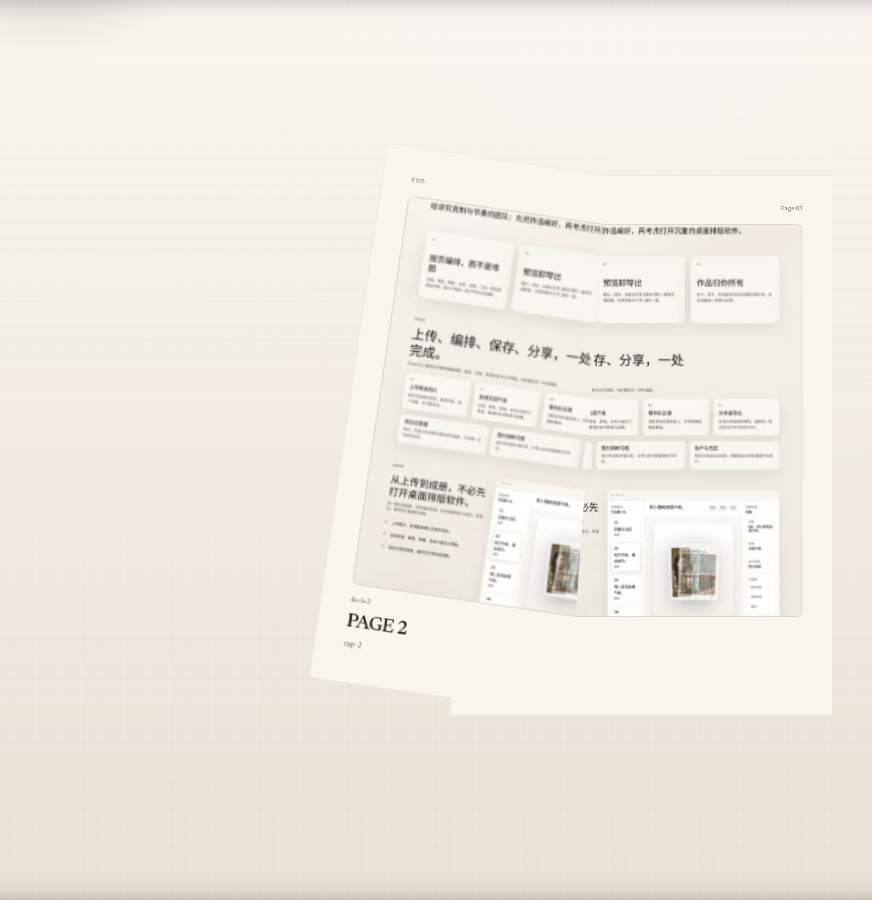
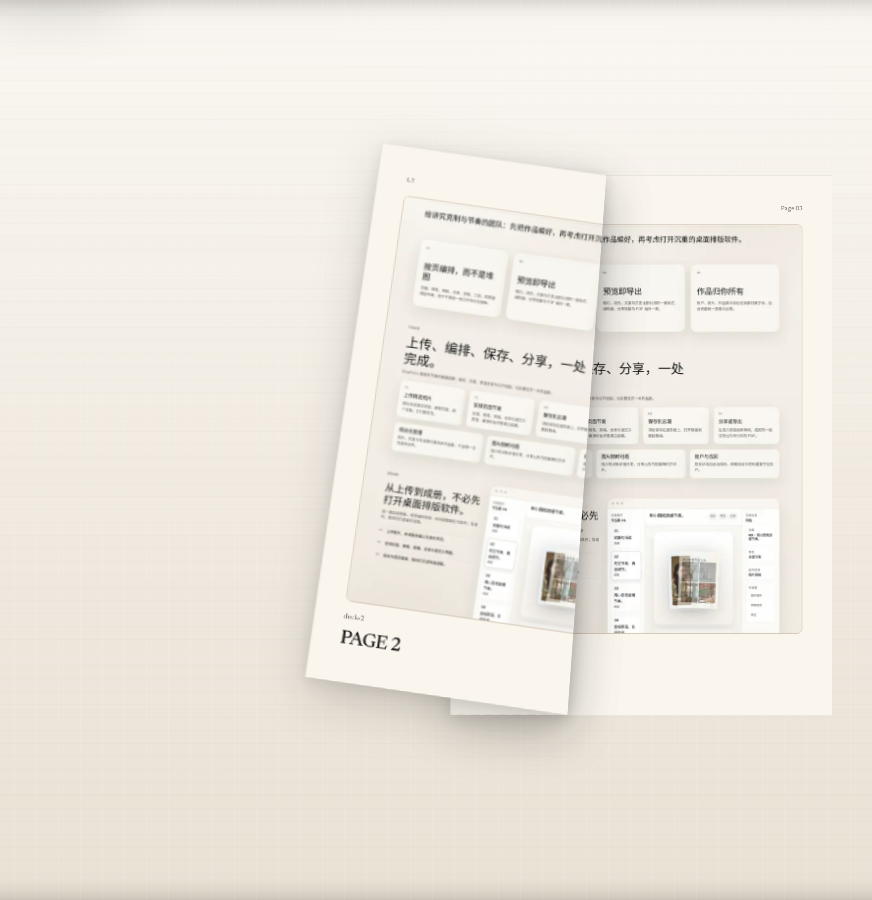
Keep the moving sheet's shadow during a turn
Removing the desk shadow for lifted pages also removed the shadow that belongs to
the sheet in the air, leaving turns completely flat. Restore it on the pages
whose inner page is actually rotated (both faces of the moving sheet), not on a
stationary target. The filter travels with the paper and is removed as soon as
the sheet is flat again.

The desk shadow still drops to zero for any lifted page and returns only after
the landed page is committed. Turn.js gradients stay hidden, so the spine band is
still absent in both directions.

The frame-recording test now also asserts that lifted frames keep a drop-shadow
on the rotated sheet and that resting frames carry none.

Changed region(s): [[0.3716, 0.2178, 0.8979, 0.84], [0.7741, 0.56, 0.8979, 0.6844]]

diff --git a/tests/e2e/reader-turn.spec.ts b/tests/e2e/reader-turn.spec.ts
@@ -111,6 +111,8 @@ type DeskFrame = {
   right: number;
   classes: string;
   gradients: number;
+  leafShadows: number;
+  leafFilters: string[];
 };
 
 type ShadowSnapshot = {
@@ -157,6 +159,7 @@ async function startDeskRecording(page: Page) {
         const style = getComputedStyle(gradient);
         return style.display !== 'none' && style.visibility === 'visible' && Number(style.opacity) > 0 && gradient.getBoundingClientRect().width > 1;
       }).length;
+      const leaves = Array.from(book.querySelectorAll<HTMLElement>('.page-wrapper.is-leaf-lifting'));
       (scope.__deskFrames as unknown[]).push({
         t: Math.round(performance.now() - started),
         lifted: book.hasAttribute('data-lifted'),
@@ -167,6 +170,8 @@ async function startDeskRecording(page: Page) {
         right: Number.parseFloat(getComputedStyle(book, '::after').opacity),
         classes: (book.className.match(/shadow-(left|right)/g) ?? []).join('+') || 'none',
         gradients,
+        leafShadows: leaves.length,
+        leafFilters: leaves.map((leaf) => getComputedStyle(leaf).filter),
       });
       requestAnimationFrame(tick);
     };
@@ -197,6 +202,20 @@ function expectDeskRuleHolds(frames: DeskFrame[]) {
   }
   for (const frame of frames) {
     expect(frame.gradients, `frame ${frame.t}ms: painted spine gradient`).toBe(0);
+  }
+
+  // The correct shadows must survive: the lifted sheet keeps its own drop
+  // shadow, and no resting page carries one.
+  const leafFrames = lifted.filter((frame) => frame.leafShadows > 0);
+  expect(leafFrames.length, 'a lifted sheet keeps a shadow').toBeGreaterThan(0);
+  for (const frame of leafFrames) {
+    expect(frame.leafFilters.length, `frame ${frame.t}ms: leaf filter`).toBeGreaterThan(0);
+    for (const filter of frame.leafFilters) {
+      expect(filter, `frame ${frame.t}ms: leaf drop-shadow`).toContain('drop-shadow');
+    }
+  }
+  for (const frame of frames.filter((candidate) => !isLiftedFrame(candidate))) {
+    expect(frame.leafShadows, `frame ${frame.t}ms: leaf shadow at rest`).toBe(0);
   }
 }
 

diff --git a/src/routes/useIssueTurnJsRuntime.ts b/src/routes/useIssueTurnJsRuntime.ts
@@ -85,6 +85,24 @@ function isTurnJsLifted(turnInstance: TurnJsInstance) {
   return (data.pageMv?.length ?? 0) > 0 || Boolean(data.status) || Boolean(data.peel);
 }
 
+// Marks the sheets that are actually rotated away from the flat plane. Their
+// drop shadow travels with the paper, so a turn keeps depth without leaving a
+// shadow on the desk. Resting pages never get the filter.
+function syncLiftedLeafShadows(book: HTMLElement) {
+  book.querySelectorAll<HTMLElement>('.page-wrapper').forEach((wrapper) => {
+    const innerPage = wrapper.querySelector<HTMLElement>('.inner-page');
+    const transform = innerPage ? window.getComputedStyle(innerPage).transform : 'none';
+    const moving = transform !== '' && transform !== 'none';
+    wrapper.classList.toggle('is-leaf-lifting', moving);
+  });
+}
+
+function clearLiftedLeafShadows(book: HTMLElement) {
+  book.querySelectorAll('.page-wrapper.is-leaf-lifting').forEach((wrapper) => {
+    wrapper.classList.remove('is-leaf-lifting');
+  });
+}
+
 function clearIdlePeelAffordance(turnInstance: TurnJsInstance) {
   if (!turnInstance?.turn) {
     return;
@@ -318,6 +336,11 @@ export function useIssueTurnJsRuntime({
           (uncommitted && uncommittedFrames <= UNCOMMITTED_PAGE_TIMEOUT_FRAMES);
         if (book.hasAttribute('data-lifted') !== lifted) {
           book.toggleAttribute('data-lifted', lifted);
+        }
+        if (lifted) {
+          syncLiftedLeafShadows(book);
+        } else {
+          clearLiftedLeafShadows(book);
         }
       }
 

diff --git a/src/styles.css b/src/styles.css
@@ -5071,6 +5071,15 @@ button.asset-frame {
   pointer-events: none;
 }
 
+/* A lifted sheet keeps its own shadow. It is a filter on the rotated page
+   wrapper, so it follows the page through the air and is removed when the page
+   is flat again. The desk shadow is separate and stays off while lifting. */
+.issue-viewer__turnjs .page-wrapper.is-leaf-lifting {
+  filter:
+    drop-shadow(0 16px 24px rgba(17, 17, 17, 0.17))
+    drop-shadow(0 3px 7px rgba(17, 17, 17, 0.09));
+}
+
 /* Turn.js paints fold gradients on the moving and revealed pages even when the
    `gradients` option is off, and only in the direction it was flipping. The
    spine shading must be the same in both directions, so none of them paint. */

diff --git a/docs/issue-register.md b/docs/issue-register.md
@@ -163,7 +163,7 @@
 | T7 | 图库磁贴悬停时边框变白，照片像被裁掉 | hover 规则用了白色边框 + 浮起阴影 | 已修复：悬停只把边框加深到 30% 墨色，不浮起、不变白 |
 | T8 | 图片未加载时显示纯白块，像是坏了 | 没有加载/失败状态 | 已修复：共用 `PhotoThumb`，加载中显示“加载中…”，失败显示“图片无法显示”；证据 `docs/evidence/2026-11-21-gallery-loading.png` |
 | T9 | 点击 UnAlbum 图片只显示“导入中”，随后没有反应，实际无法使用 | 导入路由还引用了已删除的 `binding` 变量，接口 500 | 已修复：使用 `getPhotoForUser` 返回的 binding；`validate:mvp` 新增真实导入 + 去重 + 缩略图代理用例 |
-| T20 | 翻页时阴影与纸张不同步：页面掀起时背景阴影仍在；展开时向左翻书脊无阴影、向右翻有阴影 | 桌面阴影由 React 状态驱动，只在落定时更新，翻页中仍保持满强度；turn.js 的 fold gradient 只在翻页方向上绘制（方向相关的书脊阴影）；之前的修复只改了阴影时序和移动纸张的投影，没有改变这两个根因 | 已修复：每帧从 turn.js 状态读取是否掀起（`pageMv`/status/peel/未提交页），掀起时桌面阴影 opacity 0 且无过渡；React 提交落定页后才恢复；关闭 turn.js gradients 并隐藏其 gradient 层，书脊双向一致（都无）；移除移动纸张 drop-shadow。逐帧测量 8 种转场桌面可见帧 0、gradient 0；测试 reader spec 6/6 重复 3 次，移动端 8/8 |
+| T20 | 翻页时阴影与纸张不同步：页面掀起时背景阴影仍在；展开时向左翻书脊无阴影、向右翻有阴影；只保留背景阴影时又丢失了翻页纸张应有的投影 | 桌面阴影由 React 状态驱动、只在落定时更新；turn.js fold gradient 只在一个方向绘制；上一版把翻页纸张的投影也一并删掉 | 已修复：每帧读取 turn.js 掀起状态（`pageMv`/status/peel/未提交页），掀起时桌面阴影 opacity 0；按 `.inner-page` 实际旋转标记翻页纸张（正反两面），保留随纸移动的 drop-shadow，落平即移除；turn.js gradients 关闭并隐藏，书脊双向一致（均无静态阴影）；React 提交落定页后才恢复桌面阴影。逐帧测量 8 种转场：桌面可见 0、gradient 0、翻页纸张投影存在；测试 reader 6/6、移动端 8/8 |
 | T19 | 从封面翻开时左侧出现第二页内容；turn.js 单面页面把封面正面留在左边、把目标页画在翻页背面 | 阅读器把每一页当作单面 DOM，turn.js 的 sheet 效果没有独立背面 | **未修复，需页面模型改造**：正确方案是把奇数页/偶数页配成一张纸，正反两面分别渲染并做背面隐藏；试过的 CSS 镜像/隐藏背面会产生空白或扭曲，已回退。需要确认翻页配对规则后再改（见报告 2026-11-22） |
 | T18 | 分享页未翻页时杂志没有任何背景阴影或轮廓，像浮在空白上的白纸；已有的阴影 CSS 从未被任何代码激活 | 阴影状态类无人设置，turn.js 自带 `.shadow` 又被强制隐藏 | 已修复：在书本体上增加非旋转接触阴影（左右两半，`::before`/`::after`），按 cover/spread/last 三种静止形态只覆盖真实纸张，翻页期间按仍在桌面上的纸张逐半保留/移除；1px 纸边 + 两层柔和投影，ready 后才淡入。实测 cover/spread/翻页中/落页/折角/拖拽折角/移动端/全屏 8 种状态；证据 `docs/evidence/2026-11-22-reader-*.png`；新增 e2e 断言三种静止形态的阴影几何 |
 | T14 | 公开分享页拖拽翻页后，页面一直粘在鼠标上，松开左键或单击都不释放 | 内置 turn.js 在全局 mouseup 中对 `document` 调用 `offset()`、对没有事件数据的元素取 `dispatch`，抛错后没有清理拖拽状态；peel 释放时又访问了不存在的 `dpoint` | 已修复：对 vendor 里三处做防御（document offset、缺失 events、缺失 dpoint），并把版本号提升到 `20261121e`；新增 e2e 拖拽-释放-移动断言，连续 8 次通过 |

diff --git a/docs/remediation-report-2026-11-22.md b/docs/remediation-report-2026-11-22.md
@@ -39,23 +39,26 @@ spine has either the same shading in both turn directions or none at all.
   page) → left. After release they fade in over 90ms.
 - **Spine.** Turn.js's `gradients` option is off and its gradient layers are hidden
   in CSS. No spine shading is painted in either direction, at rest or in flight.
-- **No moving-page shadow.** A drop-shadow on the moving page would still fall on
-  the background, so it is not used.
+- **The moving sheet keeps its own shadow.** A per-frame pass marks the page
+  wrappers whose `.inner-page` is actually rotated (the front and back faces of
+  the sheet in the air). Those wrappers get a drop-shadow filter; it travels with
+  the paper and is removed when the sheet is flat again. This is the correct
+  shadow that must survive a turn, and it exists in both directions.
 - **Mobile.** Turns lift the desk like desktop. The horizontal auto-slide does not
   lift any page; the shadow stays under the page that is now centred.
 
 **Measured (1200ms turns, every animation frame):**
 
-| Transition | Frames lifted | Desk visible while lifted | Painted spine gradients |
-| --- | --- | --- | --- |
-| Cover → spread | 73 | 0 | 0 |
-| Spread → spread (forward) | 73 | 0 | 0 |
-| Spread → cover (closing) | 70 | 0 | 0 |
-| Spread → last page | 73 | 0 | 0 |
-| Last page → spread (backward) | 71 | 0 | 0 |
-| Drag, cancelled | 64 | 0 | 0 |
-| Drag, backward to cover | 102 | 0 | 0 |
-| Drag, forward to spread | 100 | 0 | 0 |
+| Transition | Frames lifted | Desk visible while lifted | Painted spine gradients | Sheet shadow present |
+| --- | --- | --- | --- | --- |
+| Cover → spread | 73 | 0 | 0 | yes (`p1`/`p2`) |
+| Spread → spread (forward) | 73 | 0 | 0 | yes (`p3`/`p4`) |
+| Spread → cover (closing) | 70 | 0 | 0 | yes (`p1`/`p2`) |
+| Spread → last page | 73 | 0 | 0 | yes (`p5`/`p6`) |
+| Last page → spread (backward) | 71 | 0 | 0 | yes (`p3`/`p4`) |
+| Drag, cancelled | 64 | 0 | 0 | yes |
+| Drag, backward to cover | 102 | 0 | 0 | yes |
+| Drag, forward to spread | 100 | 0 | 0 | yes |
 
 After each landing: cover `right=1, left=0`; spread `both=1`; last page `left=1,
 right=0`.
@@ -64,11 +67,11 @@ right=0`.
 
 | State | Evidence |
 | --- | --- |
-| Cover opening, desk off while lifting | `2026-11-22-reader-opening.png` |
-| Forward turn mid-flight, no desk, no spine band | `2026-11-22-reader-turning.png` |
-| Backward turn mid-flight, same spine as forward | `2026-11-22-reader-backturn.png` |
-| Closing, no desk under the lifted page | `2026-11-22-reader-closing.png` |
-| Last page in the air, no desk | `2026-11-22-reader-last-turn.png` |
+| Cover opening: desk off, sheet shadow stays | `2026-11-22-reader-opening.png` |
+| Forward turn: no desk, sheet shadow travels | `2026-11-22-reader-turning.png` |
+| Backward turn: same sheet shadow as forward | `2026-11-22-reader-backturn.png` |
+| Closing: no desk, sheet shadow leaves with it | `2026-11-22-reader-closing.png` |
+| Last page: no desk, sheet shadow stays | `2026-11-22-reader-last-turn.png` |
 | Resting spread, desk back after landing | `2026-11-22-reader-spread.png` |
 | Last page (paper left) | `2026-11-22-reader-last.png` |
 | Hover peel (folded corner) | `2026-11-22-reader-peel.png` |
@@ -78,8 +81,9 @@ right=0`.
 
 **Regression guard:** `tests/e2e/reader-turn.spec.ts` records every animation frame
 of each transition. It asserts that no frame with a lifted page has desk opacity
-above zero, that no frame paints a turn.js gradient, and that the first resting
-frame already shows the landed state. It also covers rest states, a cancelled
+above zero, that no frame paints a turn.js gradient, that a lifted frame keeps a
+drop-shadow on the rotated sheet while resting pages have none, and that the
+first resting frame already shows the landed state. It also covers rest states, a cancelled
 drag, and the mobile slide-versus-turn distinction.
 
 ### Known limitation found while validating the opening

diff --git a/docs/devlog.md b/docs/devlog.md
@@ -1919,7 +1919,10 @@
   returns only after React has committed the page turn.js is on.
 - Turn.js gradients are disabled and their layers hidden, so the spine has the same
   (no) shading in both directions.
-- Removed the moving-page drop-shadow, since it also falls on the background.
+- The moving sheet keeps its own shadow: the per-frame pass marks page wrappers
+  whose `.inner-page` is actually rotated (both faces of the sheet) and filters
+  them. It travels with the paper and is removed when the sheet is flat. Removing
+  this along with the static shadow was an over-correction.
 - Earlier attempts used a React-driven mode and a turn-event flag. Both could show
   a stale shadow when a re-layout cancelled a turn; the commit gate closes that.
 
